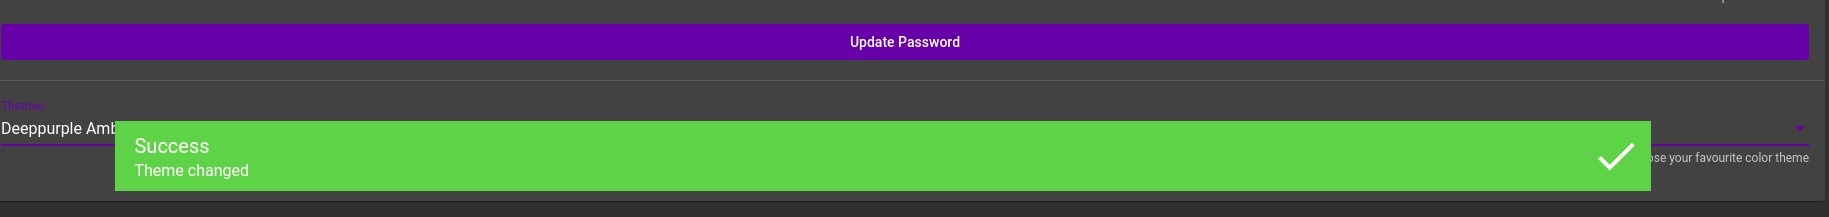
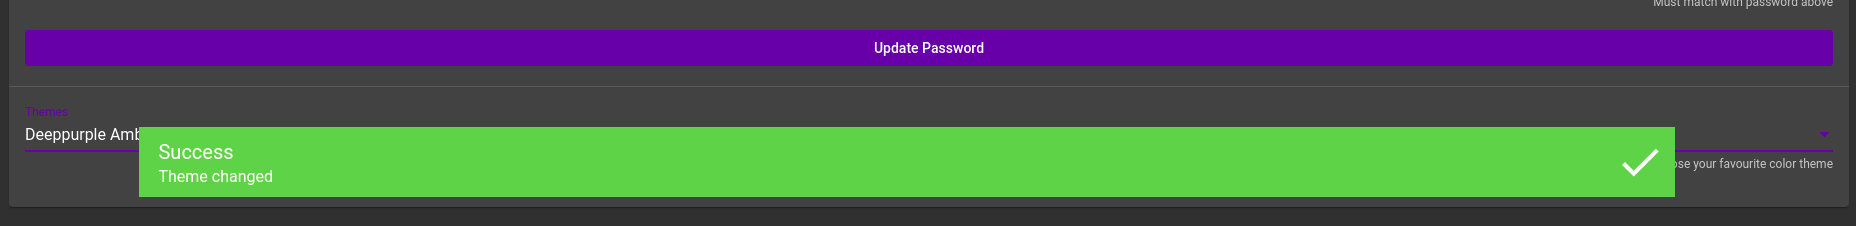
GitBook: [v1.0.0] 3 pages and 3 assets modified

diff --git a/SUMMARY.md b/SUMMARY.md
@@ -13,6 +13,7 @@
 * [Log In](user-guide/log-in.md)
 * [Dashboard](user-guide/dashboard.md)
 * [Profile](user-guide/profile.md)
+* [User Roles Management](user-guide/user-roles-management.md)
 
 ## Developer Guide
 

diff --git a/user-guide/profile.md b/user-guide/profile.md
@@ -36,3 +36,5 @@ Click on pencil icon
 
 Upon changing theme a success message will popup
 
+![](../.gitbook/assets/profile-change-theme.png)
+

diff --git a/user-guide/user-roles-management.md b/user-guide/user-roles-management.md
@@ -1,0 +1,6 @@
+# User Roles Management
+
+Where you manage users' and their roles
+
+![](../.gitbook/assets/user-mgt-roles.png)
+
